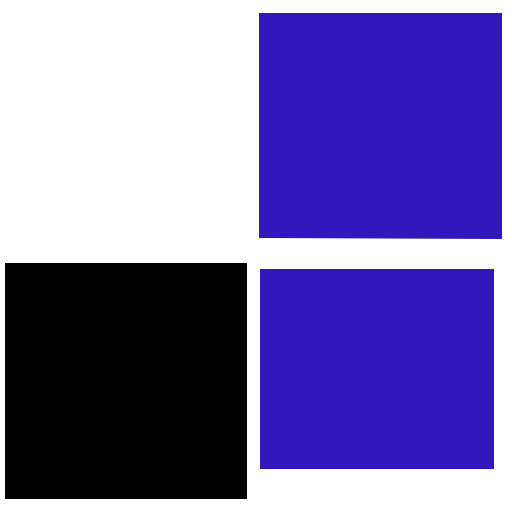
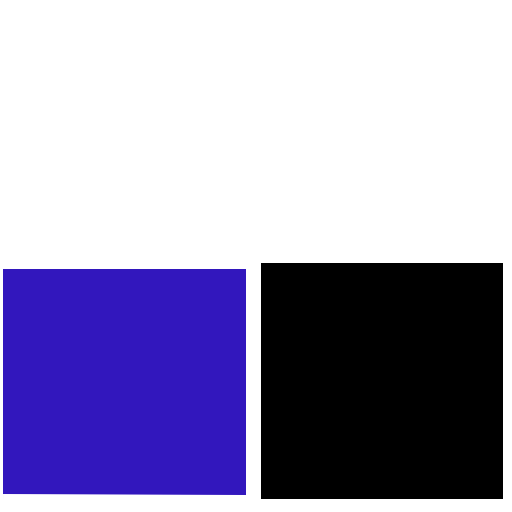
Blockz Mobile support WIP

diff --git a/Blockz/scripts/c3runtime.js b/Blockz/scripts/c3runtime.js
@@ -2739,6 +2739,74 @@ case 114:return"F3";case 115:return"F4";case 116:return"F5";case 117:return"F6";
 C3.Plugins.Keyboard.Exps={LastKeyCode(){return this._triggerWhich},StringFromKeyCode(kc){return StringFromCharCode(kc)},TypedKey(){return this._triggerTypedKey}}};
 
 
+'use strict';{const C3=self.C3;C3.Plugins.Particles=class ParticlesPlugin extends C3.SDKPluginBase{constructor(opts){super(opts)}Release(){super.Release()}}};
+
+
+'use strict';{const C3=self.C3;C3.Plugins.Particles.Type=class ParticlesType extends C3.SDKTypeBase{constructor(objectClass){super(objectClass)}Release(){super.Release()}OnCreate(){this.GetImageInfo().LoadAsset(this._runtime)}LoadTextures(renderer){return this.GetImageInfo().LoadStaticTexture(renderer,{sampling:this._runtime.GetSampling()})}ReleaseTextures(){this.GetImageInfo().ReleaseTexture()}}};
+
+
+'use strict';{const C3=self.C3;const RATE=0;const SPRAY_CONE=1;const TYPE=2;const SPAWNOBJECTCLASS=3;const SPEED=4;const SIZE=5;const OPACITY=6;const GROW_RATE=7;const X_RANDOMISER=8;const Y_RANDOMISER=9;const INITIAL_SPEED_RANDOMISER=10;const SIZE_RANDOMISER=11;const GROW_RATE_RANDOMISER=12;const ACCELERATION=13;const GRAVITY=14;const ANGLE_RANDOMISER=15;const LIFE_SPEED_RANDOMISER=16;const OPACITY_RANDOMISER=17;const DESTROY_MODE=18;const TIMEOUT=19;const CONTINUOUS=0;const ONE_SHOT=1;const tempRect=
+C3.New(C3.Rect);C3.Plugins.Particles.Instance=class ParticlesInstance extends C3.SDKWorldInstanceBase{constructor(inst,properties){super(inst);this._isFirstTick=true;const pe=C3.New(self.ParticleEngine);this._particleEngine=pe;pe.ononeshotfinish=()=>this._OnOneShotFinish();this._spawnObjectClass=null;this._particleUpdateCallback=(inst,dx,dy,dSize,dAngle,dOpacity)=>this._OnParticleUpdate(inst,dx,dy,dSize,dAngle,dOpacity);this._particleDestroyCallback=inst=>this._OnParticleDestroy(inst);this._hasAnyDefaultParticle=
+true;if(properties){pe.SetRate(properties[RATE]);pe.SetSprayCone(C3.toRadians(properties[SPRAY_CONE]));pe.SetSprayType(properties[TYPE]?"one-shot":"continuous-spray");this._SetParticleObjectClass(this._runtime.GetObjectClassBySID(properties[SPAWNOBJECTCLASS]));pe.SetInitSpeed(properties[SPEED]);pe.SetInitSize(properties[SIZE]);pe.SetInitOpacity(properties[OPACITY]/100);pe.SetGrowRate(properties[GROW_RATE]);pe.SetInitXRandom(properties[X_RANDOMISER]);pe.SetInitYRandom(properties[Y_RANDOMISER]);pe.SetInitSpeedRandom(properties[INITIAL_SPEED_RANDOMISER]);
+pe.SetInitSizeRandom(properties[SIZE_RANDOMISER]);pe.SetGrowRandom(properties[GROW_RATE_RANDOMISER]);pe.SetAcceleration(properties[ACCELERATION]);pe.SetGravity(properties[GRAVITY]);pe.SetLifeAngleRandom(properties[ANGLE_RANDOMISER]);pe.SetLifeSpeedRandom(properties[LIFE_SPEED_RANDOMISER]);pe.SetLifeOpacityRandom(properties[OPACITY_RANDOMISER]);pe.SetDestroyModeIndex(properties[DESTROY_MODE]);pe.SetTimeout(properties[TIMEOUT])}this._UpdateEngineParameters();if(this._spawnObjectClass)this._hasAnyDefaultParticle=
+false;if(pe.GetSprayType()==="one-shot")pe.CreateOneShotSpray();else pe.SetSpraying(true);const wi=this.GetWorldInfo();wi.SetBboxChangeEventEnabled(true);this._inst.Dispatcher().addEventListener("bboxchange",()=>{wi.OverwriteBoundingBox(this._particleEngine.GetBoundingBox())});this._StartTicking()}Release(){this._particleEngine.Release();this._particleEngine=null;this._particleUpdateCallback=null;this._particleDestroyCallback=null;super.Release()}_SetParticleObjectClass(objectClass){if(objectClass===
+this.GetObjectClass())objectClass=null;this._spawnObjectClass=objectClass;this._particleEngine.onparticlecreate=objectClass?p=>this._OnParticleCreate(p):null;if(!this._spawnObjectClass)this._hasAnyDefaultParticle=true}_UpdateEngineParameters(){const pe=this._particleEngine;const wi=this.GetWorldInfo();pe.SetMasterOpacity(wi.GetOpacity());pe.SetPixelRounding(this._runtime.IsPixelRoundingEnabled());pe.SetSpawnX(wi.GetX());pe.SetSpawnY(wi.GetY());pe.SetSpawnAngle(wi.GetAngle());pe.SetInitSizeScale(wi.GetSceneGraphScale())}_OnOneShotFinish(){this._runtime.DestroyInstance(this._inst)}Draw(renderer){if(!this._hasAnyDefaultParticle)return;
+const imageInfo=this._objectClass.GetImageInfo();const texture=imageInfo.GetTexture();if(!texture)return;const wi=this.GetWorldInfo();const layer=wi.GetLayer();const viewport=tempRect;layer.GetViewportForZ(wi.GetTotalZElevation(),viewport);renderer.SetTexture(texture);const zScaleFactor=layer.Get2DScaleFactorToZ(wi.GetTotalZElevation());this._particleEngine.SetParticleScale(layer.GetRenderScale()*zScaleFactor);this._particleEngine.Draw(renderer,imageInfo.GetTexRect(),viewport)}SaveToJson(){const pe=
+this._particleEngine;return{"r":pe.GetRate(),"sc":pe.GetSprayCone(),"st":pe.GetSprayType(),"isp":pe.GetInitSpeed(),"isz":pe.GetInitSize(),"io":pe.GetInitOpacity(),"gr":pe.GetGrowRate(),"xr":pe.GetInitXRandom(),"yr":pe.GetInitYRandom(),"spr":pe.GetInitSpeedRandom(),"szr":pe.GetInitSizeRandom(),"grnd":pe.GetGrowRandom(),"acc":pe.GetAcceleration(),"g":pe.GetGravity(),"lar":pe.GetLifeAngleRandom(),"lsr":pe.GetLifeSpeedRandom(),"lor":pe.GetLifeOpacityRandom(),"dm":pe.GetDestroyModeIndex(),"to":pe.GetTimeout(),
+"s":pe.IsSpraying(),"pcc":pe._GetCreateCounter(),"ft":this._isFirstTick,"p":pe.GetParticles().map(p=>p.toJSON())}}LoadFromJson(o){const pe=this._particleEngine;pe.SetRate(o["r"]);pe.SetSprayCone(o["sc"]);pe.SetSprayType(o["st"]);pe.SetInitSpeed(o["isp"]);pe.SetInitSize(o["isz"]);pe.SetInitOpacity(o["io"]);pe.SetGrowRate(o["gr"]);pe.SetInitXRandom(o["xr"]);pe.SetInitYRandom(o["yr"]);pe.SetInitSpeedRandom(o["spr"]);pe.SetInitSizeRandom(o["szr"]);pe.SetGrowRandom(o["grnd"]);pe.SetAcceleration(o["acc"]);
+pe.SetGravity(o["g"]);pe.SetLifeAngleRandom(o["lar"]);pe.SetLifeSpeedRandom(o["lsr"]);pe.SetLifeOpacityRandom(o["lor"]);pe.SetDestroyModeIndex(o["dm"]);pe.SetTimeout(o["to"]);pe.SetSpraying(o["s"]);pe._SetCreateCounter(o["pcc"]);this._isFirstTick=o["ft"];const particlesData=o["p"];pe.SetParticleCount(particlesData.length);const particles=pe.GetParticles();for(let i=0,len=particles.length;i<len;++i)particles[i].setFromJSON(particlesData[i])}Tick(){const dt=this._runtime.GetDt(this._inst);this._UpdateEngineParameters();
+if(this._isFirstTick&&this._particleEngine.GetSprayType()==="one-shot")this._particleEngine.ReInitAllParticles();this._particleEngine.Tick(dt);if(this._particleEngine.IsSpraying())this._runtime.UpdateRender();this.GetWorldInfo().SetBboxChanged();this._isFirstTick=false}_OnParticleCreate(p){const inst=this._runtime.CreateInstance(this._spawnObjectClass,this.GetWorldInfo().GetLayer(),p.GetX(),p.GetY());const wi=inst.GetWorldInfo();wi.SetSize(p.GetSize(),p.GetSize());wi.SetAngle(p.GetAngle());wi.SetOpacity(p.GetOpacity());
+wi.SetUnpremultipliedColor(this.GetWorldInfo().GetUnpremultipliedColor());wi.SetBboxChanged();wi.ZOrderMoveAdjacentToInstance(this.GetInstance(),true);inst._TriggerOnCreated();p.SetUpdateCallback(this._particleUpdateCallback);p.SetDestroyCallback(this._particleDestroyCallback);return inst}_OnParticleUpdate(inst,dx,dy,dSize,dAngle,dOpacity){if(inst.IsDestroyed())return;const wi=inst.GetWorldInfo();wi.OffsetXY(dx,dy);wi.SetSize(wi.GetWidth()+dSize,wi.GetHeight()+dSize);wi.SetAngle(wi.GetAngle()+dAngle);
+wi.SetOpacity(wi.GetOpacity()+dOpacity);wi.SetBboxChanged()}_OnParticleDestroy(inst){if(inst.IsDestroyed())return;this._runtime.DestroyInstance(inst)}GetPropertyValueByIndex(index){const pe=this._particleEngine;switch(index){case RATE:return pe.GetRate();case SPRAY_CONE:return C3.toDegrees(pe.GetSprayCone());case TYPE:return pe.GetSprayType()==="one-shot"?ONE_SHOT:CONTINUOUS;case SPEED:return pe.GetInitSpeed();case SIZE:return pe.GetInitSize();case OPACITY:return pe.GetInitOpacity()*100;case GROW_RATE:return pe.GetGrowRate();
+case X_RANDOMISER:return pe.GetInitXRandom();case Y_RANDOMISER:return pe.GetInitYRandom();case INITIAL_SPEED_RANDOMISER:return pe.GetInitSpeedRandom();case SIZE_RANDOMISER:return pe.GetInitSizeRandom();case GROW_RATE_RANDOMISER:return pe.GetGrowRandom();case ACCELERATION:return pe.GetAcceleration();case GRAVITY:return pe.GetGravity();case ANGLE_RANDOMISER:return pe.GetLifeAngleRandom();case LIFE_SPEED_RANDOMISER:return pe.GetLifeSpeedRandom();case OPACITY_RANDOMISER:return pe.GetLifeOpacityRandom();
+case DESTROY_MODE:return pe.GetDestroyModeIndex();case TIMEOUT:return pe.GetTimeout()}}SetPropertyValueByIndex(index,value){const pe=this._particleEngine;switch(index){case RATE:pe.SetRate(value);break;case SPRAY_CONE:pe.SetSprayCone(C3.toRadians(value));break;case TYPE:pe.SetSprayType(value?"one-shot":"continuous-spray");break;case SPEED:pe.SetInitSpeed(value);break;case SIZE:pe.SetInitSize(value);break;case OPACITY:pe.SetInitOpacity(value/100);break;case GROW_RATE:pe.SetGrowRate(value);break;case X_RANDOMISER:pe.SetInitXRandom(value);
+break;case Y_RANDOMISER:pe.SetInitYRandom(value);break;case INITIAL_SPEED_RANDOMISER:pe.SetInitSpeedRandom(value);break;case SIZE_RANDOMISER:pe.SetInitSizeRandom(value);break;case GROW_RATE_RANDOMISER:pe.SetGrowRandom(value);break;case ACCELERATION:pe.SetAcceleration(value);break;case GRAVITY:pe.SetGravity(value);break;case ANGLE_RANDOMISER:pe.SetLifeAngleRandom(value);break;case LIFE_SPEED_RANDOMISER:pe.SetLifeSpeedRandom(value);break;case OPACITY_RANDOMISER:pe.SetLifeOpacityRandom(value);break;
+case DESTROY_MODE:pe.SetDestroyModeIndex(value);break;case TIMEOUT:pe.SetTimeout(value);break}}GetDebuggerProperties(){const prefix="plugins.particles";const propPrefix=prefix+".properties";const dbgPrefix=prefix+".debugger";const pe=this._particleEngine;return[{title:prefix+".name",properties:[{name:dbgPrefix+".particle-count",value:pe.GetParticleCount()},{name:propPrefix+".type.name",value:[propPrefix+".type.items."+pe.GetSprayType()]},{name:dbgPrefix+".is-spraying",value:pe.IsSpraying(),onedit:v=>
+pe.SetSpraying(v)},{name:propPrefix+".rate.name",value:pe.GetRate(),onedit:v=>pe.SetRate(v)},{name:propPrefix+".spray-cone.name",value:C3.toDegrees(pe.GetSprayCone()),onedit:v=>pe.SetSprayCone(C3.toRadians(v))},{name:propPrefix+".speed.name",value:pe.GetInitSpeed(),onedit:v=>pe.SetInitSpeed(v)},{name:propPrefix+".size.name",value:pe.GetInitSize(),onedit:v=>pe.SetInitSize(v)},{name:propPrefix+".opacity.name",value:pe.GetInitOpacity(),onedit:v=>pe.SetInitOpacity(v)},{name:propPrefix+".grow-rate.name",
+value:pe.GetGrowRate(),onedit:v=>pe.SetGrowRate(v)},{name:propPrefix+".x-randomiser.name",value:pe.GetInitXRandom(),onedit:v=>pe.SetInitXRandom(v)},{name:propPrefix+".y-randomiser.name",value:pe.GetInitYRandom(),onedit:v=>pe.SetInitYRandom(v)},{name:propPrefix+".initial-speed-randomiser.name",value:pe.GetInitSpeedRandom(),onedit:v=>pe.SetInitSpeedRandom(v)},{name:propPrefix+".size-randomiser.name",value:pe.GetInitSizeRandom(),onedit:v=>pe.SetInitSizeRandom(v)},{name:propPrefix+".grow-rate-randomiser.name",
+value:pe.GetGrowRandom(),onedit:v=>pe.SetGrowRandom(v)},{name:propPrefix+".acceleration.name",value:pe.GetAcceleration(),onedit:v=>pe.SetAcceleration(v)},{name:propPrefix+".gravity.name",value:pe.GetGravity(),onedit:v=>pe.SetGravity(v)},{name:propPrefix+".angle-randomiser.name",value:pe.GetLifeAngleRandom(),onedit:v=>pe.SetLifeAngleRandom(v)},{name:propPrefix+".life-speed-randomiser.name",value:pe.GetLifeSpeedRandom(),onedit:v=>pe.SetLifeSpeedRandom(v)},{name:propPrefix+".opacity-randomiser.name",
+value:pe.GetLifeOpacityRandom(),onedit:v=>pe.SetLifeOpacityRandom(v)},{name:propPrefix+".timeout.name",value:pe.GetTimeout(),onedit:v=>pe.SetTimeout(v)}]}]}}};
+
+
+'use strict';{const C3=self.C3;C3.Plugins.Particles.Cnds={IsSpraying(){return this._particleEngine.IsSpraying()}}};
+
+
+'use strict';{const C3=self.C3;C3.Plugins.Particles.Acts={SetSpraying(s){this._particleEngine.SetSpraying(s!==0)},SetRate(r){this._particleEngine.SetRate(r);if(this._particleEngine.GetSprayType()==="one-shot"&&this._isFirstTick)this._particleEngine.SetParticleCount(r)},SetParticleObject(objectClass){this._SetParticleObjectClass(objectClass)},UnsetParticleObject(){this._SetParticleObjectClass(null)},SetSprayCone(c){this._particleEngine.SetSprayCone(C3.toRadians(c))},SetInitSpeed(x){this._particleEngine.SetInitSpeed(x)},
+SetInitSize(x){this._particleEngine.SetInitSize(x)},SetInitOpacity(x){this._particleEngine.SetInitOpacity(x/100)},SetGrowRate(x){this._particleEngine.SetGrowRate(x)},SetXRandomiser(x){this._particleEngine.SetInitXRandom(x)},SetYRandomiser(x){this._particleEngine.SetInitYRandom(x)},SetSpeedRandomiser(x){this._particleEngine.SetInitSpeedRandom(x)},SetSizeRandomiser(x){this._particleEngine.SetInitSizeRandom(x)},SetGrowRateRandomiser(x){this._particleEngine.SetGrowRandom(x)},SetParticleAcc(x){this._particleEngine.SetAcceleration(x)},
+SetGravity(x){this._particleEngine.SetGravity(x)},SetAngleRandomiser(x){this._particleEngine.SetLifeAngleRandom(x)},SetLifeSpeedRandomiser(x){this._particleEngine.SetLifeSpeedRandom(x)},SetOpacityRandomiser(x){this._particleEngine.SetLifeOpacityRandom(x)},SetTimeout(x){this._particleEngine.SetTimeout(x)},SetEffect(effect){this.GetWorldInfo().SetBlendMode(effect);this._runtime.UpdateRender()}}};
+
+
+'use strict';{const C3=self.C3;C3.Plugins.Particles.Exps={ParticleCount(){return this._particleEngine.GetParticleCount()},Rate(){return this._particleEngine.GetRate()},SprayCone(){return C3.toDegrees(this._particleEngine.GetSprayCone())},InitSpeed(){return this._particleEngine.GetInitSpeed()},InitSize(){return this._particleEngine.GetInitSize()},InitOpacity(){return this._particleEngine.GetInitOpacity()*100},InitGrowRate(){return this._particleEngine.GetGrowRate()},XRandom(){return this._particleEngine.GetInitXRandom()},
+YRandom(){return this._particleEngine.GetInitYRandom()},InitSpeedRandom(){return this._particleEngine.GetInitSpeedRandom()},InitGrowRandom(){return this._particleEngine.GetGrowRandom()},ParticleAcceleration(){return this._particleEngine.GetAcceleration()},Gravity(){return this._particleEngine.GetGravity()},ParticleAngleRandom(){return this._particleEngine.GetLifeAngleRandom()},ParticleSpeedRandom(){return this._particleEngine.GetLifeSpeedRandom()},ParticleOpacityRandom(){return this._particleEngine.GetLifeOpacityRandom()},
+Timeout(){return this._particleEngine.GetTimeout()}}};
+
+
+'use strict';{const C3=self.C3;const inactiveParticles=[];const MAX_RECYCLE_PARTICLES=1E3;const VALID_SPRAY_TYPES=new Set(["continuous-spray","one-shot"]);const DESTROY_MODES=["fade-to-invisible","timeout-expired","particle-stopped"];self.ParticleEngine=class ParticleEngine{constructor(){this._rate=0;this._sprayCone=0;this._sprayType="continuous-spray";this._isSpraying=false;this._masterOpacity=0;this._isPixelRounding=false;this._spawnX=0;this._spawnY=0;this._spawnAngle=0;this._initSpeed=0;this._initSize=
+0;this._initSizeScale=1;this._initOpacity=0;this._growRate=0;this._xRandom=0;this._yRandom=0;this._initSpeedRandom=0;this._initSizeRandom=0;this._growRandom=0;this._acceleration=0;this._gravity=0;this._lifeAngleRandom=0;this._lifeSpeedRandom=0;this._lifeOpacityRandom=0;this._destroyMode=0;this._timeout=0;this._createCounter=0;this._particleScale=1;this.ononeshotfinish=null;this.onparticlecreate=null;this._particles=[];this._boundingBox=new C3.Rect;this._color=new C3.Color}Release(){this.Cancel();
+C3.clearArray(this._particles);this._particles=null;this.ononeshotfinish=null;this.onparticlecreate=null;this._boundingBox=null;this._boundingBox=null;this._color=null}Cancel(){const particles=this._particles;for(let i=0,len=particles.length;i<len;++i)particles[i].Destroy();C3.appendArray(inactiveParticles,particles);C3.clearArray(particles);if(inactiveParticles.length>MAX_RECYCLE_PARTICLES)C3.truncateArray(inactiveParticles,MAX_RECYCLE_PARTICLES);this._isSpraying=false}CreateOneShotSpray(){for(let i=
+0,len=this._rate;i<len;++i)this._CreateParticle();if(this._particles.length)this._isSpraying=true}_CreateParticle(){let ret=null;if(inactiveParticles.length){ret=inactiveParticles.pop();ret.SetEngine(this)}else ret=C3.New(self.Particle,this);this._particles.push(ret);ret.Init(this.onparticlecreate);return ret}ReInitAllParticles(){const particles=this._particles;const onparticlecreate=this.onparticlecreate;for(let i=0,len=particles.length;i<len;++i)particles[i].Init(onparticlecreate)}SetParticleCount(c){const particles=
+this._particles;if(c<particles.length){const diff=particles.length-c;for(let i=0;i<diff;++i){const p=particles.pop();p.Destroy();inactiveParticles.push(p)}if(inactiveParticles.length>MAX_RECYCLE_PARTICLES)C3.truncateArray(inactiveParticles,MAX_RECYCLE_PARTICLES)}else if(c>particles.length){const diff=c-particles.length;for(let i=0;i<diff;++i)this._CreateParticle()}}GetParticles(){return this._particles}GetParticleCount(){return this._particles.length}Tick(dt){this._SpawnContinuous(dt);this._TickParticles(dt);
+this._MaybeFinishOneShot()}_SpawnContinuous(dt){if(this._sprayType==="continuous-spray"&&this._isSpraying){this._createCounter+=dt*this._rate;const n=Math.floor(this._createCounter);this._createCounter-=n;for(let i=0;i<n;++i)this._CreateParticle()}}_SetCreateCounter(c){this._createCounter=c}_GetCreateCounter(){return this._createCounter}_TickParticles(dt){const bbox=this._boundingBox;bbox.set(this._spawnX,this._spawnY,this._spawnX,this._spawnY);const particles=this._particles;let j=0;for(let i=0,
+len=particles.length;i<len;++i){const p=particles[i];particles[j]=p;p.Tick(dt);if(p.IsActive()){++j;bbox.expandToContain(p.GetBoundingBox())}else{p.Destroy();inactiveParticles.push(p)}}C3.truncateArray(particles,j);if(inactiveParticles.length>MAX_RECYCLE_PARTICLES)C3.truncateArray(inactiveParticles,MAX_RECYCLE_PARTICLES)}_MaybeFinishOneShot(){if(this._sprayType==="one-shot"&&this._particles.length===0&&this._isSpraying){if(this.ononeshotfinish)this.ononeshotfinish();this._isSpraying=false}}Draw(renderer,
+texRect,viewport){renderer.SetPointTextureCoords(texRect);this._color.copy(renderer.GetColor());const particles=this._particles;for(let i=0,len=particles.length;i<len;++i){const p=particles[i];if(viewport.intersectsRect(p.GetBoundingBox()))p.Draw(renderer,texRect)}}GetColor(){return this._color}SetRate(r){this._rate=+r}GetRate(){return this._rate}SetSprayCone(c){this._sprayCone=+c}GetSprayCone(){return this._sprayCone}SetSprayType(type){if(!VALID_SPRAY_TYPES.has(type))throw new Error("invalid spray type");
+this._sprayType=type}GetSprayType(){return this._sprayType}SetSpraying(s){this._isSpraying=!!s}IsSpraying(){return this._isSpraying}SetMasterOpacity(o){this._masterOpacity=+o}GetMasterOpacity(){return this._masterOpacity}SetPixelRounding(r){this._isPixelRounding=!!r}IsPixelRounding(){return this._isPixelRounding}SetSpawnX(x){this._spawnX=+x}GetSpawnX(){return this._spawnX}SetSpawnY(y){this._spawnY=+y}GetSpawnY(){return this._spawnY}SetSpawnAngle(a){this._spawnAngle=+a}GetInitAngle(){return this._spawnAngle}SetInitSpeed(s){this._initSpeed=
++s}GetInitSpeed(){return this._initSpeed}SetInitSize(s){this._initSize=+s}GetInitSize(){return this._initSize}SetInitSizeScale(s){this._initSizeScale=+s}GetInitSizeScale(){return this._initSizeScale}SetInitOpacity(o){this._initOpacity=+o}GetInitOpacity(){return this._initOpacity}SetGrowRate(g){this._growRate=+g}GetGrowRate(){return this._growRate}SetInitXRandom(x){this._xRandom=+x}GetInitXRandom(){return this._xRandom}SetInitYRandom(y){this._yRandom=+y}GetInitYRandom(){return this._yRandom}SetInitSpeedRandom(s){this._initSpeedRandom=
++s}GetInitSpeedRandom(){return this._initSpeedRandom}SetInitSizeRandom(s){this._initSizeRandom=+s}GetInitSizeRandom(){return this._initSizeRandom}SetGrowRandom(g){this._growRandom=+g}GetGrowRandom(){return this._growRandom}SetAcceleration(a){this._acceleration=+a}GetAcceleration(){return this._acceleration}SetGravity(g){this._gravity=+g}GetGravity(){return this._gravity}SetLifeAngleRandom(a){this._lifeAngleRandom=+a}GetLifeAngleRandom(){return this._lifeAngleRandom}SetLifeSpeedRandom(s){this._lifeSpeedRandom=
++s}GetLifeSpeedRandom(){return this._lifeSpeedRandom}SetLifeOpacityRandom(o){this._lifeOpacityRandom=+o}GetLifeOpacityRandom(){return this._lifeOpacityRandom}SetDestroyMode(m){let i=DESTROY_MODES.indexOf(m);if(i===-1)throw new Error("invalid destroy mode");this._destroyMode=i}SetDestroyModeIndex(i){this.SetDestroyMode(DESTROY_MODES[i])}GetDestroyMode(){return DESTROY_MODES[this._destroyMode]}GetDestroyModeIndex(){return this._destroyMode}SetTimeout(t){this._timeout=+t}GetTimeout(){return this._timeout}SetParticleScale(s){this._particleScale=
++s}GetParticleScale(){return this._particleScale}GetBoundingBox(){return this._boundingBox}}};
+
+
+'use strict';{const C3=self.C3;const ParticleEngine=self.ParticleEngine;function randomOffset(x){return Math.random()*x-x/2}const tmpQuad=new C3.Quad;const tmpColor=new C3.Color;const DPR=self.devicePixelRatio||1;let didChangeColor=false;self.Particle=class Particle{constructor(engine){this._engine=engine;this._isActive=false;this._x=0;this._y=0;this._speed=0;this._angle=0;this._opacity=1;this._lastOpacity=0;this._grow=0;this._size=0;this._halfSize=0;this._gs=0;this._age=0;this._bbox=new C3.Rect;
+this._userData=null;this._updateCallback=null;this._destroyCallback=null}SetEngine(engine){this._engine=engine}Init(particleCreateCallback){const engine=this._engine;this._isActive=true;this._x=engine.GetSpawnX()+randomOffset(engine.GetInitXRandom());this._y=engine.GetSpawnY()+randomOffset(engine.GetInitYRandom());this._speed=engine.GetInitSpeed()+randomOffset(engine.GetInitSpeedRandom());this._angle=engine.GetInitAngle()+randomOffset(engine.GetSprayCone());this._opacity=engine.GetInitOpacity();this._lastOpacity=
+this._opacity;this._size=(engine.GetInitSize()+randomOffset(engine.GetInitSizeRandom()))*engine.GetInitSizeScale();this._halfSize=this._size/2;this._grow=engine.GetGrowRate()+randomOffset(engine.GetGrowRandom());this._gs=0;this._age=0;this._UpdateBoundingBox();if(particleCreateCallback){if(!this._userData)this._userData=particleCreateCallback(this)}else{this._userData=null;this._updateCallback=null;this._destroyCallback=null}}SetUpdateCallback(f){this._updateCallback=f}SetDestroyCallback(f){this._destroyCallback=
+f}Destroy(){const particleDestroyCallback=this._destroyCallback;if(particleDestroyCallback)particleDestroyCallback(this._userData);this._userData=null;this._updateCallback=null;this._destroyCallback=null}toJSON(){return[this._x,this._y,this._speed,this._angle,this._opacity,this._grow,this._size,this._gs,this._age]}setFromJSON(o){this._x=o[0];this._y=o[1];this._speed=o[2];this._angle=o[3];this._opacity=o[4];this._grow=o[5];this._size=o[6];this._gs=o[7];this._age=o[8];this._halfSize=this._size/2;this._UpdateBoundingBox()}Tick(dt){const engine=
+this._engine;const dist=this._speed*dt;const a=this._angle;const dx=Math.cos(a)*dist;const dy=Math.sin(a)*dist+this._gs*dt;this._x+=dx;this._y+=dy;const dSize=this._grow*dt;this._size+=dSize;this._halfSize=this._size/2;this._speed+=engine.GetAcceleration()*dt;this._gs+=engine.GetGravity()*dt;this._age+=dt;this._UpdateBoundingBox();const lifeAngleRandom=engine.GetLifeAngleRandom();const lifeSpeedRandom=engine.GetLifeSpeedRandom();const lifeOpacityRandom=engine.GetLifeOpacityRandom();let dAngle=0;if(lifeAngleRandom!==
+0){dAngle=randomOffset(lifeAngleRandom*dt);this._angle+=dAngle}if(lifeSpeedRandom!==0)this._speed+=randomOffset(lifeSpeedRandom*dt);if(lifeOpacityRandom!==0)this._opacity=C3.clamp(this._opacity+randomOffset(lifeOpacityRandom*dt),0,1);const isActive=this._size>=1&&(engine.GetDestroyModeIndex()===2?this._speed>0:this._age<engine.GetTimeout());const particleUpdateCallback=this._updateCallback;if(particleUpdateCallback&&isActive){let curOpacity=engine.GetMasterOpacity()*this._opacity;if(engine.GetDestroyModeIndex()===
+0)curOpacity*=1-this._age/engine.GetTimeout();const dOpacity=curOpacity-this._lastOpacity;this._lastOpacity=curOpacity;particleUpdateCallback(this._userData,dx,dy,dSize,dAngle,dOpacity)}this._isActive=isActive}IsActive(){return this._isActive}GetBoundingBox(){return this._bbox}_UpdateBoundingBox(){const x=this._x;const y=this._y;const halfSize=this._halfSize;this._bbox.set(x-halfSize,y-halfSize,x+halfSize,y+halfSize)}Draw(renderer,texRect){if(this._userData)return;const engine=this._engine;let opacity=
+engine.GetMasterOpacity()*this._opacity;if(engine.GetDestroyModeIndex()===0)opacity*=1-this._age/engine.GetTimeout();if(opacity<=0)return;const size=this._size;const scaledSize=size*engine.GetParticleScale()*DPR;if(scaledSize<1)return;let x=this._x;let y=this._y;if(engine.IsPixelRounding()){x=x+.5|0;y=y+.5|0}if(scaledSize>renderer.GetMaxPointSize()||scaledSize<renderer.GetMinPointSize()){tmpColor.copy(engine.GetColor());tmpColor.multiplyAlpha(opacity);renderer.SetColor(tmpColor);didChangeColor=true;
+tmpQuad.setFromRect(this._bbox);renderer.Quad3(tmpQuad,texRect)}else{if(didChangeColor){renderer.SetColor(engine.GetColor());didChangeColor=false}renderer.Point(x,y,scaledSize,opacity)}}GetUserData(){return this._userData}GetX(){return this._x}GetY(){return this._y}GetSize(){return this._size}GetAngle(){return this._angle}GetOpacity(){return this._opacity}}};
+
+
 'use strict';{const C3=self.C3;C3.Behaviors.bound=class BoundBehavior extends C3.SDKBehaviorBase{constructor(opts){super(opts)}Release(){super.Release()}}};
 
 
@@ -2866,11 +2934,12 @@ wi.GetY()));wi.SetBboxChanged()}}GetPropertyValueByIndex(index){switch(index){ca
 		C3.Behaviors.wrap,
 		C3.Plugins.Mouse,
 		C3.Plugins.Keyboard,
+		C3.Plugins.Particles,
 		C3.Plugins.System.Cnds.EveryTick,
-		C3.Plugins.Sprite.Acts.SetTowardPosition,
-		C3.Plugins.Mouse.Exps.X,
-		C3.Plugins.Mouse.Exps.Y,
 		C3.Plugins.Text.Acts.SetText,
+		C3.Plugins.Sprite.Acts.SetTowardPosition,
+		C3.Plugins.Touch.Exps.X,
+		C3.Plugins.Touch.Exps.Y,
 		C3.Plugins.Sprite.Cnds.OnCreated,
 		C3.Plugins.Sprite.Acts.SetInstanceVar,
 		C3.Plugins.System.Exps.random,
@@ -2881,12 +2950,18 @@ wi.GetY()));wi.SetBboxChanged()}}GetPropertyValueByIndex(index){switch(index){ca
 		C3.Plugins.Sprite.Cnds.IsOverlapping,
 		C3.Plugins.Sprite.Acts.SetX,
 		C3.Plugins.Keyboard.Cnds.IsKeyDown,
+		C3.Plugins.Touch.Cnds.OnHoldGesture,
 		C3.Plugins.Sprite.Acts.Spawn,
-		C3.Plugins.Keyboard.Cnds.OnKeyReleased,
 		C3.Plugins.System.Cnds.CompareVar,
+		C3.Plugins.Keyboard.Cnds.OnKeyReleased,
+		C3.Plugins.Touch.Cnds.OnTapGesture,
+		C3.Plugins.Touch.Cnds.OnTouchEnd,
 		C3.Plugins.System.Acts.SubVar,
 		C3.Plugins.Sprite.Acts.Destroy,
+		C3.Plugins.Touch.Cnds.OnHoldGestureObject,
+		C3.Plugins.Sprite.Acts.RotateClockwise,
 		C3.Plugins.Keyboard.Cnds.OnKey,
+		C3.Plugins.Touch.Cnds.OnTapGestureObject,
 		C3.Plugins.Sprite.Cnds.OnCollision,
 		C3.Plugins.System.Acts.AddVar,
 		C3.Plugins.Sprite.Acts.SubInstanceVar,
@@ -2905,11 +2980,13 @@ wi.GetY()));wi.SetBboxChanged()}}GetPropertyValueByIndex(index){switch(index){ca
 		C3.Plugins.Sprite.Acts.SetScale,
 		C3.Behaviors.Bullet.Exps.Speed,
 		C3.Plugins.Sprite.Acts.SetOpacity,
-		C3.Plugins.Mouse.Cnds.OnAnyClick,
+		C3.Plugins.Mouse.Cnds.OnObjectClicked,
+		C3.Plugins.Touch.Cnds.OnTouchObject,
 		C3.Plugins.Sprite.Acts.SetVisible
 		];
 	};
 	self.C3_JsPropNameTable = [
+		{angleP: 0},
 		{BoundToLayout: 0},
 		{Player: 0},
 		{amount: 0},
@@ -2922,7 +2999,7 @@ wi.GetY()));wi.SetBboxChanged()}}GetPropertyValueByIndex(index){switch(index){ca
 		{Solid: 0},
 		{Enemy: 0},
 		{EnemyBullet: 0},
-		{Text: 0},
+		{Controlstips: 0},
 		{Wrap: 0},
 		{Star: 0},
 		{Mouse: 0},
@@ -2935,15 +3012,26 @@ wi.GetY()));wi.SetBboxChanged()}}GetPropertyValueByIndex(index){switch(index){ca
 		{arrow: 0},
 		{Text4: 0},
 		{health: 0},
-		{Tittle: 0},
+		{Title: 0},
 		{play: 0},
 		{Text3: 0},
-		{Back: 0},
+		{info: 0},
 		{dot: 0},
 		{DYcord: 0},
 		{deathblock: 0},
 		{Sprite2: 0},
 		{Sprite3: 0},
+		{Particles: 0},
+		{controls: 0},
+		{Restart: 0},
+		{Backtohome: 0},
+		{button: 0},
+		{DeleteT: 0},
+		{FIRE: 0},
+		{rotate: 0},
+		{Text: 0},
+		{Text5: 0},
+		{Text6: 0},
 		{amo: 0},
 		{amoT: 0},
 		{score: 0}
@@ -3049,12 +3137,16 @@ wi.GetY()));wi.SetBboxChanged()}}GetPropertyValueByIndex(index){switch(index){ca
 
 	self.C3_ExpressionFuncs = [
 		p => {
-			const f0 = p._GetNode(0).GetBoundMethod();
-			return () => f0();
+			const v0 = p._GetNode(0).GetVar();
+			return () => and("Score: ", v0.GetValue());
 		},
 		p => {
 			const v0 = p._GetNode(0).GetVar();
 			return () => v0.GetValue();
+		},
+		p => {
+			const f0 = p._GetNode(0).GetBoundMethod();
+			return () => f0();
 		},
 		p => {
 			const f0 = p._GetNode(0).GetBoundMethod();
@@ -3072,13 +3164,14 @@ wi.GetY()));wi.SetBboxChanged()}}GetPropertyValueByIndex(index){switch(index){ca
 			return () => f0(30, 450);
 		},
 		() => -20,
-		() => 20,
+		() => 15,
 		p => {
 			const f0 = p._GetNode(0).GetBoundMethod();
 			return () => Math.floor(f0(30, 450));
 		},
 		() => 0,
 		() => 1,
+		() => 10,
 		() => -17179870207,
 		() => 400,
 		p => {

diff --git a/index.html b/index.html
@@ -80,7 +80,7 @@
 			<h2>
 				Updates
 			</h2>
-			<p>			
+			<p>		12/7: added mobile support to Blockz (new controls) WIP			
 				</br>12/7: update to the About section in the home page, and other minor home page maintenance. 
 				</br>12/2: minor formatting update to page 1
 				</br>11/30: updated and added new features to "Blockz" 
